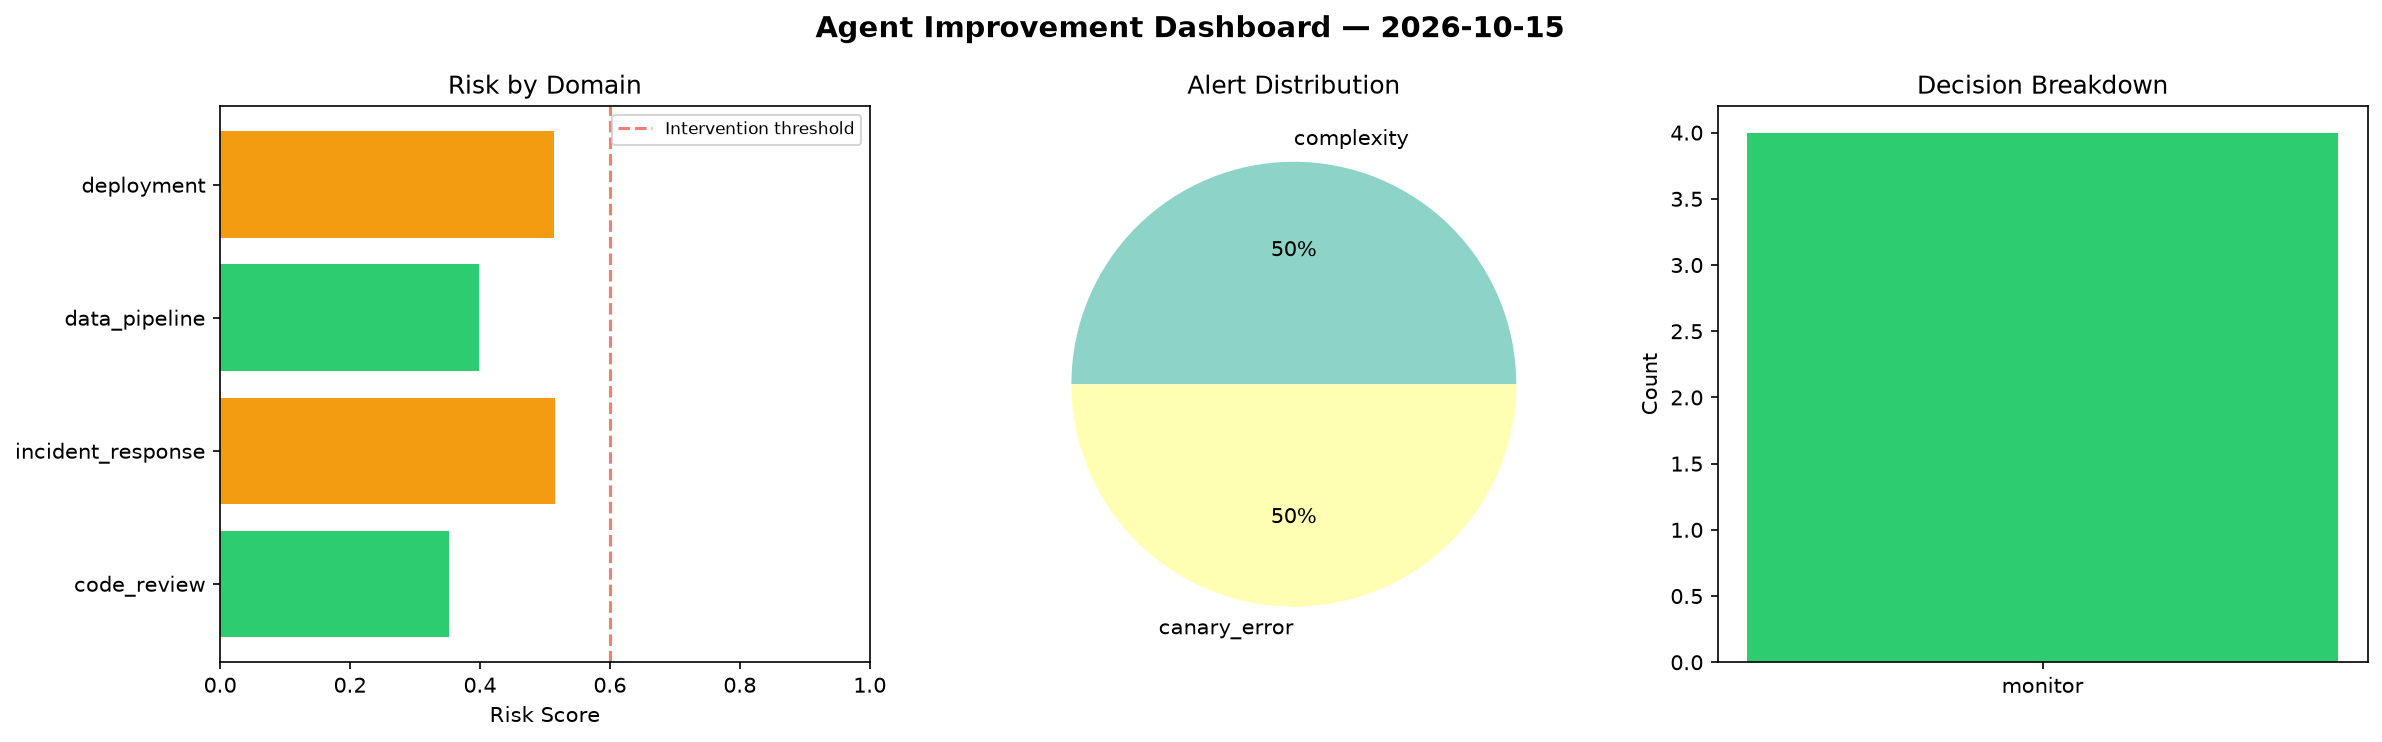
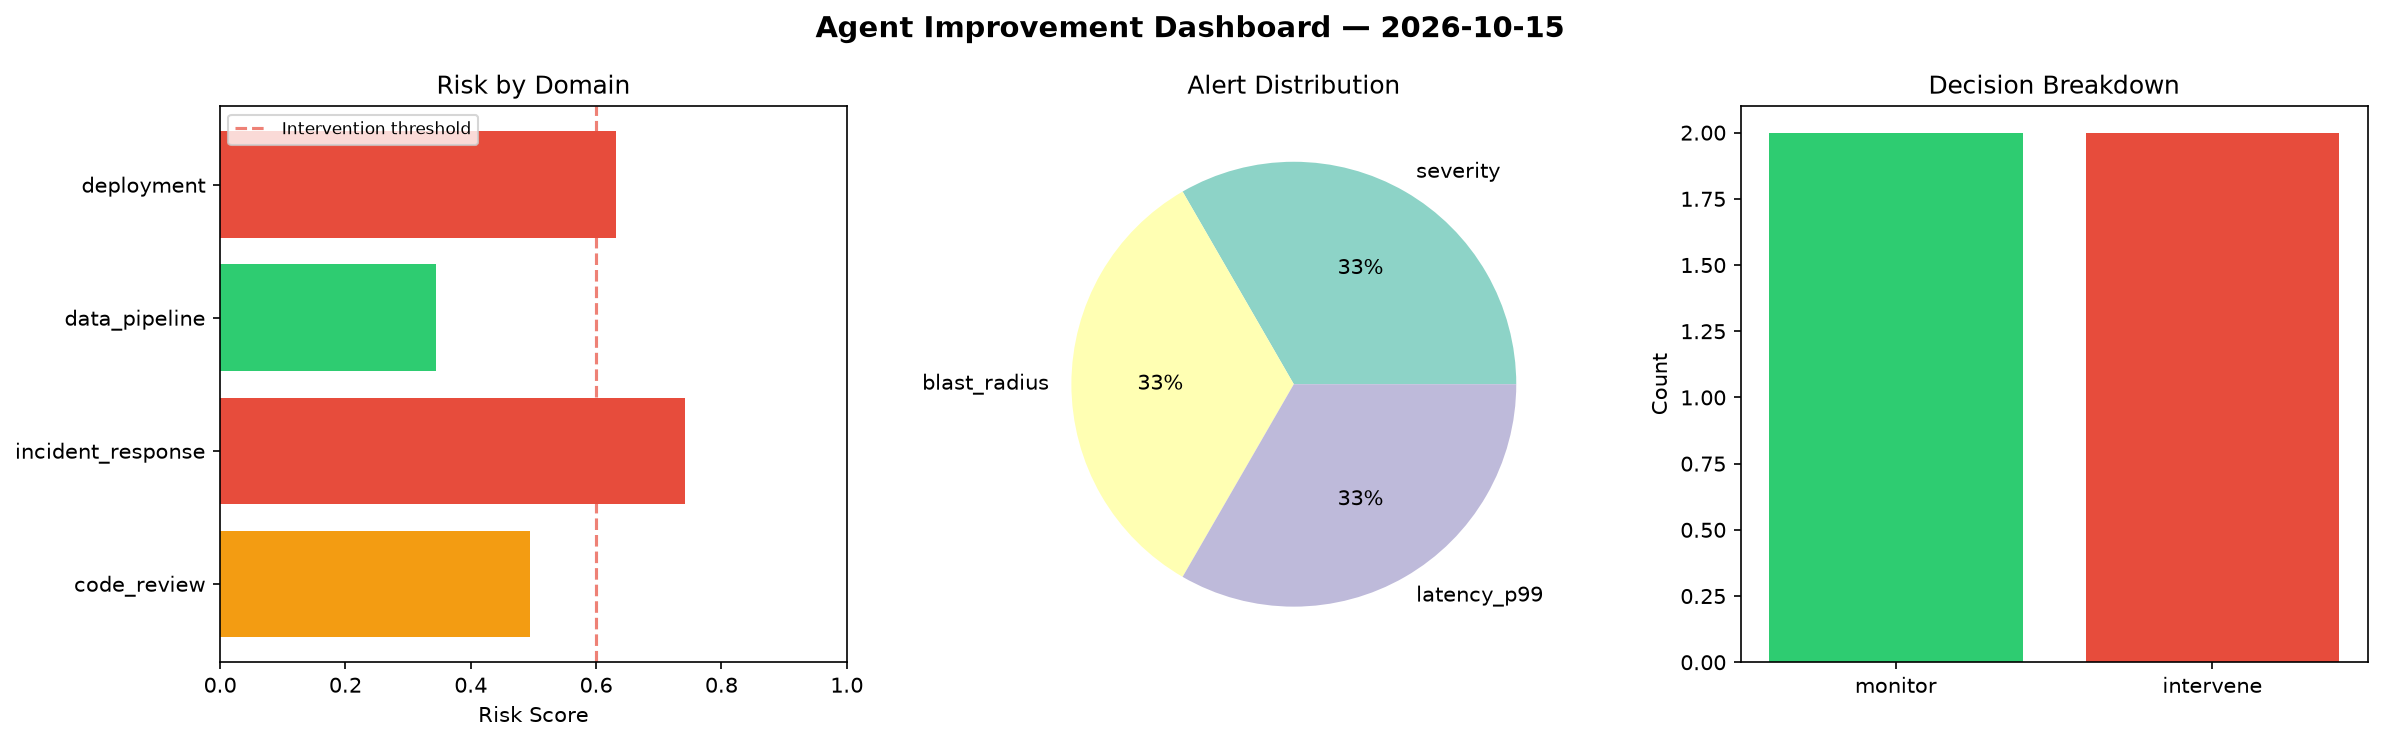
agent-improvement: daily cycle 2026-10-15T18:18

diff --git a/logs/2026-10-15.md b/logs/2026-10-15.md
@@ -1,6 +1,6 @@
 # Agent Improvement Report — 2026-10-15
 
-**Cycle ID:** `2f267ebf` | **Avg Risk:** 0.445 | **Interventions:** 0/4
+**Cycle ID:** `6842629b` | **Avg Risk:** 0.5533 | **Interventions:** 2/4
 
 ![Dashboard](2026-10-15_dashboard.png)
 
@@ -10,18 +10,18 @@
 
 | Domain | Risk Score | Decision | Alerts |
 |--------|-----------|----------|--------|
-| code_review | 0.3526 | monitor | complexity |
-| incident_response | 0.5152 | monitor | none |
-| data_pipeline | 0.3984 | monitor | none |
-| deployment | 0.5137 | monitor | canary_error |
+| code_review | 0.495 | monitor | none |
+| incident_response | 0.7421 | intervene | severity, blast_radius |
+| data_pipeline | 0.3445 | monitor | none |
+| deployment | 0.6316 | intervene | latency_p99 |
 
 ## Delta vs Yesterday
 
 | Domain | Today | Yesterday | Change |
 |--------|-------|-----------|--------|
-| code_review | 0.3526 | 0.4414 | 📉 -20.1% |
-| incident_response | 0.5152 | 0.4733 | 📈 8.9% |
-| data_pipeline | 0.3984 | 0.2624 | 📈 51.8% |
-| deployment | 0.5137 | 0.4049 | 📈 26.9% |
+| code_review | 0.495 | 0.4414 | 📈 12.1% |
+| incident_response | 0.7421 | 0.4733 | 📈 56.8% |
+| data_pipeline | 0.3445 | 0.2624 | 📈 31.3% |
+| deployment | 0.6316 | 0.4049 | 📈 56.0% |
 
 **Refinement:** `{'adjustment': 'tighten_thresholds', 'trend': 'degrading', 'window': 4}`
